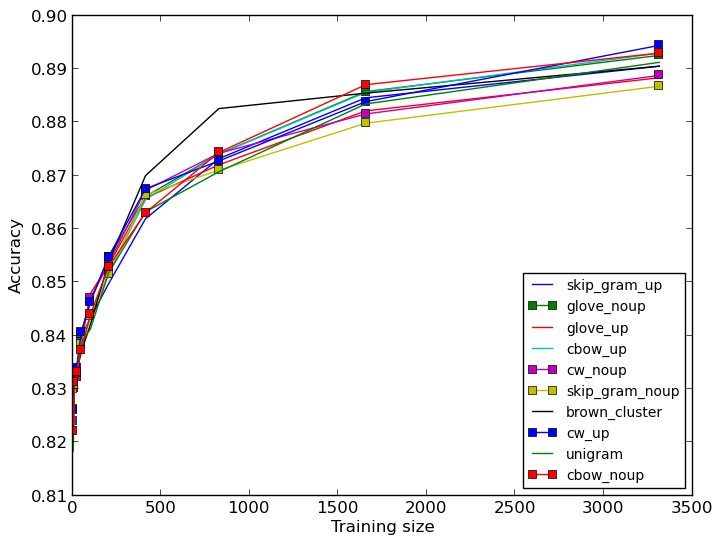
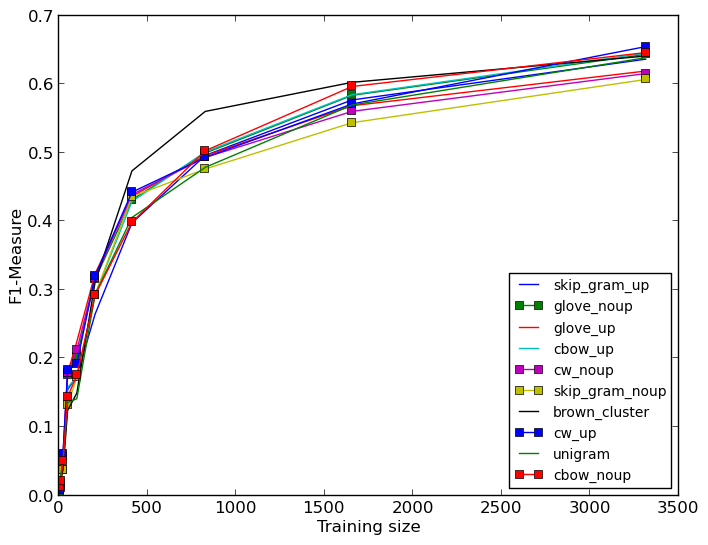
update plots, repair bug in y axis labels

diff --git a/trunk/plots/NERoutOfVocIN.py b/trunk/plots/NERoutOfVocIN.py
@@ -80,69 +80,75 @@ def sortedWalk(top, topdown=True, onerror=None):
         yield top, dirs, nondirs
 
 
+def returnold(folder):
+    matches = []
+    for root, dirnames, filenames in os.walk(folder):
+        for filename in fnmatch.filter(filenames, '*.*'):
+            matches.append(os.path.join(root, filename))
+    return min(matches, key=os.path.getmtime)
 
 files = sortedWalk(inputfolder)
 
 
 
-#for root, subdirs, files in os.walk(walk_dir):
+for root, subdirs, files in os.walk(walk_dir):
 	#print('--\nroot = ' + root)
-#	for subdir in sorted(subdirs):
-#		print('\t- subdirectory ' + subdir)			
-#	sortfiles = sorted(files)  
-for filename in files:  
-	if filename in alist_filter: 
-		if re.match("unigram_best.txt", filename): label = "unigram"
-		elif re.match("glove_noupdated_best.txt", filename): 
-			marker = noupMarker
-			label = "glove_noup"
-		elif re.match("glove_updated_incretuneparam.txt", filename): label = "glove_up"
-		elif re.match("cbow_negsam_noupdated_best.txt", filename):
-			marker = noupMarker
-			label = "cbow_negsam_noup"
-		elif re.match("cbow_negsam_updated_incretuneparam.txt", filename): label = "cbow_negsam_up"
-		elif re.match("skip_gram_negsam_noupdated_best.txt", filename):
-			marker = noupMarker
-			label = "skip_gram_negsam_noup"
-		elif re.match("skip_gram_negsam_updated_incretuneparam.txt", filename): label = "skip_gram_negsam_up"
-		elif re.match("cw_updated_incretuneparam.txt", filename): label = "cw_up"
-		elif re.match("cw_noupdated_best.txt", filename):
-			marker = noupMarker
-			label = "cw_noup"
-		elif re.match("brown_cluster_v4000_best.txt", filename): label = "brown_cluster"
-		filePath = os.path.join(root, filename)
-		print('\t- file %s (full path: %s)' % (filename, filePath))
-		with open(filePath, 'rb') as f:
-		        lines = f.readlines()
-			f.close	
-			# check the column title
-			titleLine = lines[0]
-			t = titleLine.split()				
-			print('column title:', t[2])		# IN DOMAIN CONLL_out-of-vocabulary_Accuracy
-			print('column title 2:', t[29])		# OUT OF DOMAIN MUC_out-of-vocabulary_Accuracy
-			# skip the first row with the titles
-			for line in lines[1:]: 
-				p = line.split()	
-				x.append(float(p[0]))				
-				y.append(float(p[2]))
-			# convert to numpy array
-			print('x ', x)						
-			print('y ', y)			
-			print('z', z) 
-			xv = np.array(x)
-			yv = np.array(y)
-			zv = np.array(z)
-			plt.plot(xv, yv, label = label + '_' + t[2].replace('_out-of-vocabulary_Accuracy', ''), linestyle=linestyle, marker=marker)	
-#				plt.plot(xv, zv, label = label + '_' + t[29].replace('_out-of-vocabulary_Accuracy', ''))		
-			x = []
-			y = []
-			z = []
-			xv = []
-			yv = []
-			zv = []
-			label = ''
-			marker = ''
-	
+	for subdir in sorted(subdirs):
+		print('\t- subdirectory ' + subdir)			
+	sortfiles = sorted(files)  
+	for filename in files:  
+		if filename in alist_filter: 
+			if re.match("unigram_best.txt", filename): label = "unigram"
+			elif re.match("glove_noupdated_best.txt", filename): 
+				marker = noupMarker
+				label = "glove_noup"
+			elif re.match("glove_updated_incretuneparam.txt", filename): label = "glove_up"
+			elif re.match("cbow_negsam_noupdated_best.txt", filename):
+				marker = noupMarker
+				label = "cbow_negsam_noup"
+			elif re.match("cbow_negsam_updated_incretuneparam.txt", filename): label = "cbow_negsam_up"
+			elif re.match("skip_gram_negsam_noupdated_best.txt", filename):
+				marker = noupMarker
+				label = "skip_gram_negsam_noup"
+			elif re.match("skip_gram_negsam_updated_incretuneparam.txt", filename): label = "skip_gram_negsam_up"
+			elif re.match("cw_updated_incretuneparam.txt", filename): label = "cw_up"
+			elif re.match("cw_noupdated_best.txt", filename):
+				marker = noupMarker
+				label = "cw_noup"
+			elif re.match("brown_cluster_v4000_best.txt", filename): label = "brown_cluster"
+			filePath = os.path.join(root, filename)
+			print('\t- file %s (full path: %s)' % (filename, filePath))
+			with open(filePath, 'rb') as f:
+			        lines = f.readlines()
+				f.close	
+				# check the column title
+				titleLine = lines[0]
+				t = titleLine.split()				
+				print('column title:', t[2])		# IN DOMAIN CONLL_out-of-vocabulary_Accuracy
+				print('column title 2:', t[29])		# OUT OF DOMAIN MUC_out-of-vocabulary_Accuracy
+				# skip the first row with the titles
+				for line in lines[1:]: 
+					p = line.split()	
+					x.append(float(p[0]))				
+					y.append(float(p[2]))
+				# convert to numpy array
+				print('x ', x)						
+				print('y ', y)			
+#				print('z', z) 
+				xv = np.array(x)
+				yv = np.array(y)
+#				zv = np.array(z)
+				plt.plot(xv, yv, label = label + '_' + t[2].replace('_out-of-vocabulary_Accuracy', ''), linestyle=linestyle, 	marker=marker)	
+	#				plt.plot(xv, zv, label = label + '_' + t[29].replace('_out-of-vocabulary_Accuracy', ''))		
+				x = []
+				y = []
+				z = []
+				xv = []
+				yv = []
+				zv = []
+				label = ''
+				marker = ''
+		
 plt.xlabel('Training size')
 plt.ylabel('F1-Measure')
 

diff --git a/trunk/plots/bestChunk.py b/trunk/plots/bestChunk.py
@@ -1,14 +1,23 @@
 #!/usr/bin/python
 from pylab import *
-from natsort import natsorted
+from natsort import natsorted, ns
 import re
 import os
 import glob
 import array
+import locale
 import fnmatch
 import numpy as np
 import sys, getopt
 import matplotlib.pyplot as plt
+
+try:
+	from pathlib import PurePath # PurePath is the base object for Paths.
+except ImportError:
+	PurePath = object # To avoid NameErrors.
+	has_pathlib = False
+else:
+	has_pathlib = True
 
 try:
 	opts, args = getopt.getopt(sys.argv[1:],"hi:o:",["ifolder=","ofile=", "title="])
@@ -52,37 +61,34 @@ alist_filter = ['brown_cluster_v4000_best.txt',
 	'skip_gram_negsam_updated_incretuneparam.txt']
 
 walk_dir = inputfolder
+
 for root, subdirs, files in os.walk(walk_dir):
 	#print('--\nroot = ' + root)
 	for subdir in subdirs:
-		print('\t- subdirectory ' + subdir)			
-	for filename in natsorted(files):  		
+		print('\t- subdirectory ' + subdir)	
+	
+	sortfiles = natsorted(files, alg=ns.LOCALE)	
+	for filename in sortfiles:  		
 		if filename in alist_filter:
-			if re.match("unigram_best.txt", filename):
-				label = filename.replace("unigram_best.txt", "unigram") 
+			if re.match("unigram_best.txt", filename): "unigram" 
 			if re.match("glove_noupdated_best.txt", filename):
 				marker = noupMarker
-				label = filename.replace("glove_noupdated_best.txt", "glove_noup")
+				label = "glove_noup"
 			if re.match("glove_updated_incretuneparam.txt", filename):					
-				label = filename.replace("glove_updated_incretuneparam.txt", "glove_up")
+				label = "glove_up"
 			elif re.match("cbow_negsam_noupdated_best.txt", filename):
 				marker = noupMarker
-				label = filename.replace("cbow_negsam_noupdated_best.txt", "cbow_negsam_noup")
-			elif re.match("cbow_negsam_updated_incretuneparam.txt", filename):
-				label = filename.replace("cbow_negsam_updated_incretuneparam.txt", "cbow_negsam_up") 
+				label = "cbow_negsam_noup"
+			elif re.match("cbow_negsam_updated_incretuneparam.txt", filename): label = "cbow_negsam_up"
 			elif re.match("skip_gram_negsam_noupdated_best.txt", filename):
 				marker = noupMarker
-				label = filename.replace("skip_gram_negsam_noupdated_best.txt", "skip_gram_negsam_noup")
-			elif re.match("skip_gram_negsam_updated_incretuneparam.txt", filename):
-				label = filename.replace("skip_gram_negsam_updated_incretuneparam.txt", "skip_gram_negsam_up")
-			elif re.match("cw_updated_incretuneparam.txt", filename):
-				marker = noupMarker
-				label = filename.replace("cw_updated_incretuneparam.txt", "cw_up")
+				label = "skip_gram_negsam_noup"
+			elif re.match("skip_gram_negsam_updated_incretuneparam.txt", filename): label = "skip_gram_negsam_up"
+			elif re.match("cw_updated_incretuneparam.txt", filename): label =  "cw_up"
 			elif re.match("cw_noupdated_best.txt", filename):
 				marker = noupMarker
-				label = filename.replace("cw_noupdated_best.txt", "cw_noup")		
-			elif re.match("brown_cluster_v4000_best.txt", filename):
-				label = filename.replace("brown_cluster_v4000_best.txt", "brown_cluster")
+				label = "cw_noup"
+			elif re.match("brown_cluster_v4000_best.txt", filename): label = "brown_cluster"
 	
 			filePath = os.path.join(root, filename)
 			print('\t- file %s (full path: %s)' % (filename, filePath))
@@ -97,7 +103,7 @@ for root, subdirs, files in os.walk(walk_dir):
 				for line in lines[1:]: 
 					p = line.split()	
 					x.append(float(p[0]))				
-					y.append(float(p[32]))
+					y.append(float(p[32]))   # AG
 				# convert to numpy array
 				print('x ', x)						
 				print('y ', y)			
@@ -112,7 +118,7 @@ for root, subdirs, files in os.walk(walk_dir):
 				marker = ''
 
 plt.xlabel('Training size')
-plt.ylabel('Accuracy')
+plt.ylabel('F1-Measure')
 
 plt.rcParams.update(legParams)
 plt.legend(loc='lower right')

diff --git a/trunk/plots/bestMWE.py b/trunk/plots/bestMWE.py
@@ -59,31 +59,26 @@ for root, subdirs, files in os.walk(walk_dir):
 		print('\t- subdirectory ' + subdir)			
 	for filename in natsorted(files):  		
 		if filename in alist_filter: 
-			if re.match("unigram_best.txt", filename):
-				label = filename.replace("unigram_best.txt", "unigram")
+			if re.match("unigram_best.txt", filename): label = "unigram"
 			if re.match("glove_noupdated_best.txt", filename):
 				marker = noupMarker
-				label = filename.replace("glove_noupdated_best.txt", "glove_noup")
-			if re.match("glove_updated_best.txt", filename):					
-				label = filename.replace("glove_updated_best.txt", "glove_up")
+				label = "glove_noup"
+			if re.match("glove_updated_best.txt", filename): label = "glove_up"
 			elif re.match("cbow_noupdated_best.txt", filename):
 				marker = noupMarker
-				label = filename.replace("cbow_noupdated_best.txt", "cbow_noup")
-			elif re.match("cbow_updated_best.txt", filename):
-				label = filename.replace("cbow_updated_best.txt", "cbow_up") 
+				label = "cbow_noup"
+			elif re.match("cbow_updated_best.txt", filename): label = "cbow_up"
 			elif re.match("skipgram_noupdated_best.txt", filename):
 				marker = noupMarker
-				label = filename.replace("skipgram_noupdated_best.txt", "skip_gram_noup")
-			elif re.match("skipgram_updated_best.txt", filename):
-				label = filename.replace("skipgram_updated_best.txt", "skip_gram_up")
+				label = "skip_gram_noup"
+			elif re.match("skipgram_updated_best.txt", filename): label = "skip_gram_up"
 			elif re.match("cw_updated_best.txt", filename):
 				marker = noupMarker
-				label = filename.replace("cw_updated_best.txt", "cw_up")
+				label = "cw_up"
 			elif re.match("cw_noupdated_best.txt", filename):
 				marker = noupMarker
-				label = filename.replace("cw_noupdated_best.txt", "cw_noup")		
-			elif re.match("brown_cluster_v4000_best.txt", filename):
-				label = filename.replace("brown_cluster_v4000_best.txt", "brown_cluster")	
+				label = "cw_noup"
+			elif re.match("brown_cluster_v4000_best.txt", filename): label = "brown_cluster
 			filePath = os.path.join(root, filename)
 			print('\t- file %s (full path: %s)' % (filename, filePath))
 			with open(filePath, 'rb') as f:
@@ -92,12 +87,12 @@ for root, subdirs, files in os.walk(walk_dir):
 				# check the column title
 				titleLine = lines[0]
 				t = titleLine.split()				
-				print('column title', t[1] )		
+				print('column title', t[17] )		
 				# skip the first row with the titles
 				for line in lines[1:]: 
 					p = line.split()	
 					x.append(float(p[0]))				
-					y.append(float(p[1]))
+					y.append(float(p[17]))   # F1: R
 				# convert to numpy array
 				print('x ', x)						
 				print('y ', y)			
@@ -112,7 +107,7 @@ for root, subdirs, files in os.walk(walk_dir):
 				marker = ''
 	
 plt.xlabel('Training size')
-plt.ylabel('Accuracy')
+plt.ylabel('F1-Measure')
 
 plt.rcParams.update(legParams)
 plt.legend(loc='lower right')

diff --git a/trunk/plots/bestNER.py b/trunk/plots/bestNER.py
@@ -95,7 +95,7 @@ for root, subdirs, files in os.walk(walk_dir):
 				for line in lines[1:]: 
 					p = line.split()	
 					x.append(float(p[0]))				
-					y.append(float(p[35]))
+					y.append(float(p[35]))   # F1: AJ
 				# convert to numpy array
 				print('x ', x)						
 				print('y ', y)			
